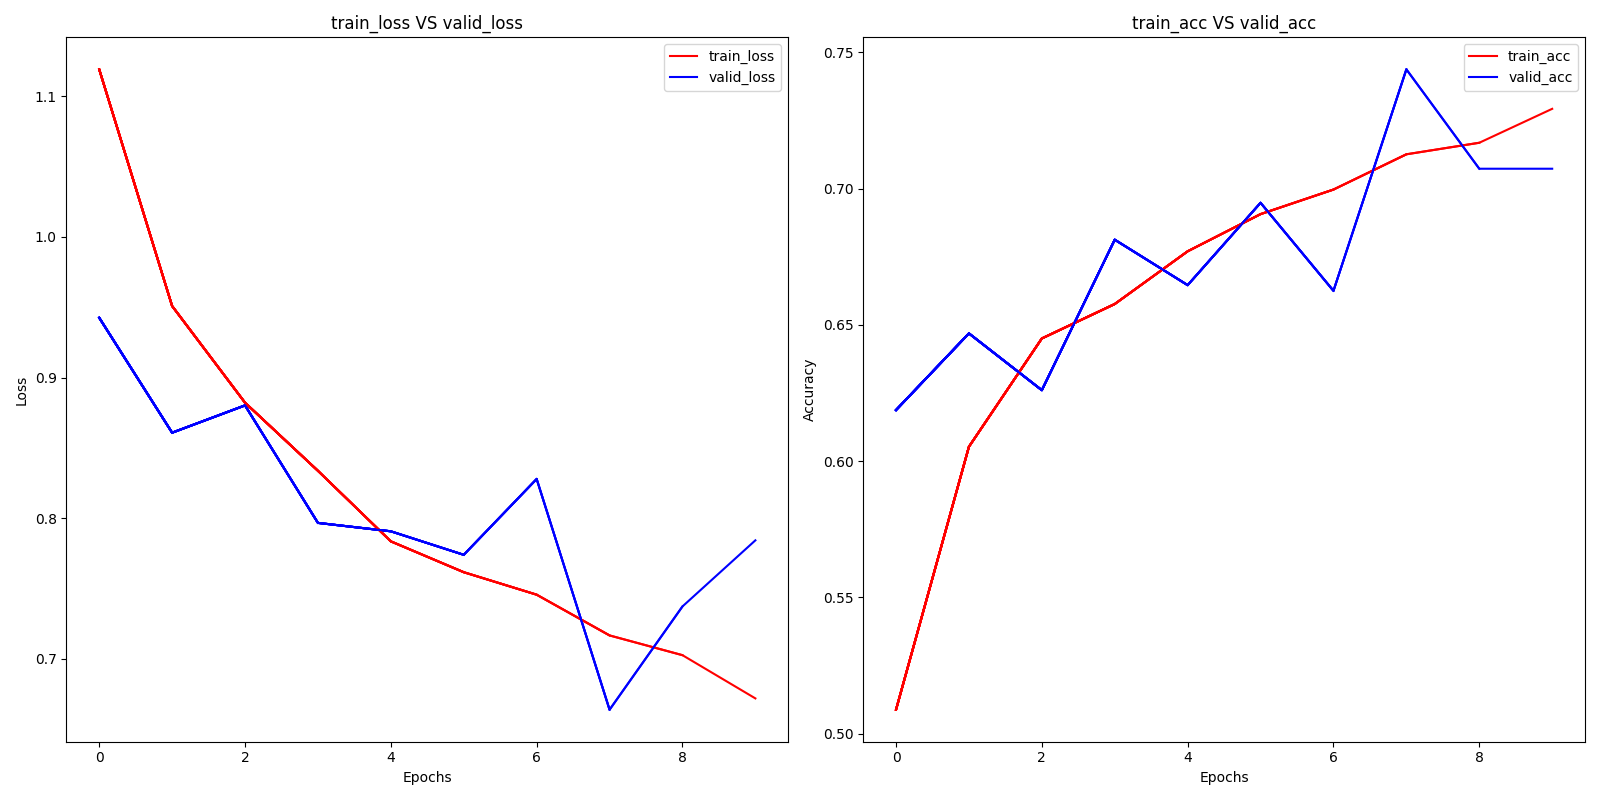
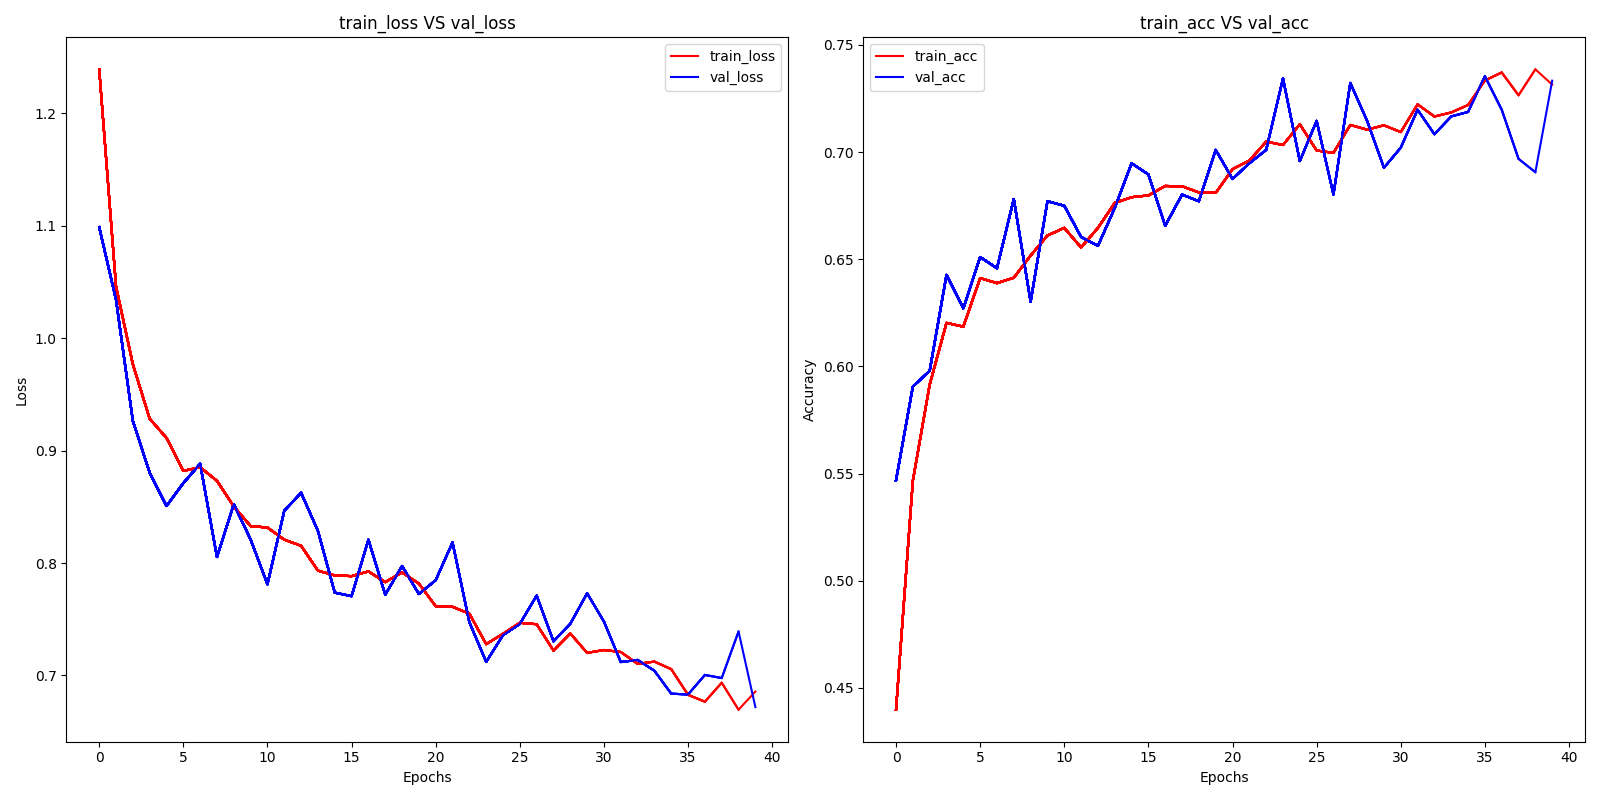
Code refactoring. Added LR scheduler.

diff --git a/src/model.py b/src/model.py
@@ -86,7 +86,9 @@ class MRINeuralNet(nn.Module):
                     self.conv_1(x)
                  )
                )
-           
+#class EarlyStopping():
+#    def __init__(self, patience, ):
+            
         
 class TrainTestEval():
     def __init__(self,
@@ -94,6 +96,7 @@ class TrainTestEval():
                  optimizer: torch.optim.Optimizer,
                  loss_func: nn.Module,
                  epochs: int = 10,
+                 lr_scheduler: torch.optim.lr_scheduler=None,
                  device: str = "cuda" if torch.cuda.is_available() else "cpu",
                  RANDOM_SEED: int = None
                 ):
@@ -102,6 +105,7 @@ class TrainTestEval():
         self.optimizer = optimizer
         self.loss_func = loss_func 
         self.epochs = epochs 
+        self.lr_scheduler = lr_scheduler
         self.device = device 
         
         # Put model on device
@@ -147,7 +151,7 @@ class TrainTestEval():
         # Model in eval mode
         self.model.eval()
         # Setup valid loss and accuracy 
-        valid_loss, valid_acc = 0, 0
+        val_loss, val_acc = 0, 0
 
         # Inference mode (not to compute gradient)
         with torch.inference_mode():
@@ -156,25 +160,32 @@ class TrainTestEval():
                 # Set data to device
                 imgs, labels = imgs.to(self.device), labels.to(self.device)
                 # Forward pass
-                valid_pred_logit = self.model(imgs)
+                val_pred_logit = self.model(imgs)
                 # Calculate valid loss
-                loss = self.loss_func(valid_pred_logit, labels)
-                valid_loss += loss.item()
+                loss = self.loss_func(val_pred_logit, labels)
+                val_loss += loss.item()
                 # Calculate accuracy
-                predicted_classes = valid_pred_logit.argmax(dim=1)
-                valid_acc += ((predicted_classes==labels).sum().item()/len(predicted_classes))
+                predicted_classes = val_pred_logit.argmax(dim=1)
+                val_acc += ((predicted_classes==labels).sum().item()/len(predicted_classes))
 
         # Average metrics per batch
-        valid_loss = valid_loss / len(valid_dataloader)
-        valid_acc = valid_acc / len(valid_dataloader)
-        return valid_loss, valid_acc
+        val_loss = val_loss / len(valid_dataloader)
+        val_acc = val_acc / len(valid_dataloader)
+        return val_loss, val_acc
+    
+    def _schedule_lr(self, metric):
+        if isinstance(self.lr_scheduler, torch.optim.lr_scheduler.ReduceLROnPlateau):
+            self.lr_scheduler.step(metric)
+        else:
+            self.lr_scheduler.step()
+        print('\nLr value: ', self.optimizer.param_groups[0]['lr'])
 
     def training(self, train_dataloader:DataLoader, valid_dataloader:DataLoader, verbose: bool = True, plot_metrics:bool = True):
         # Empty dict to track metrics
         training_metrics = {"train_loss": [],
                             "train_acc": [],
-                            "valid_loss": [],
-                            "valid_acc": []
+                            "val_loss": [],
+                            "val_acc": []
                             }
 
         # Initialize plot
@@ -185,11 +196,11 @@ class TrainTestEval():
         # Loop through epochs 
         for epoch in tqdm(range(self.epochs)):
             train_loss, train_acc = self.training_step(train_dataloader)
-            valid_loss, valid_acc = self.validation_step(valid_dataloader)
+            val_loss, val_acc = self.validation_step(valid_dataloader)
 
             # Actualize result_metrics
             training_metrics["train_loss"].append(train_loss), training_metrics["train_acc"].append(train_acc)
-            training_metrics["valid_loss"].append(valid_loss), training_metrics["valid_acc"].append(valid_acc)
+            training_metrics["val_loss"].append(val_loss), training_metrics["val_acc"].append(val_acc)
             
             if verbose:
                 # Print metrics for each epoch
@@ -197,10 +208,15 @@ class TrainTestEval():
                     color_print("\nEpoch: ", "LIGHTGREEN_EX"), epoch,
                     color_print("train_loss: ", "RED"), f"{train_loss:.4f}", color_print(" | ", "LIGHTMAGENTA_EX"),
                     color_print("train_acc: ", "RED"), f"{train_acc:.4f}", color_print(" | ", "LIGHTMAGENTA_EX"),
-                    color_print("valid_loss: ", "BLUE"), f"{valid_loss:.4f}", color_print(" | ", "LIGHTMAGENTA_EX"),
-                    color_print("valid_acc: ", "BLUE"), f"{valid_acc:.4f}", color_print(" | ", "LIGHTMAGENTA_EX")
+                    color_print("val_loss: ", "BLUE"), f"{val_loss:.4f}", color_print(" | ", "LIGHTMAGENTA_EX"),
+                    color_print("val_acc: ", "BLUE"), f"{val_acc:.4f}", color_print(" | ", "LIGHTMAGENTA_EX")
                 )
 
+
+            if self.lr_scheduler:
+                self._schedule_lr(val_loss)
+                
+                
             # Plot the metrics curves
             if plot_metrics:
                 self.plot_metrics(training_metrics)
@@ -226,18 +242,18 @@ class TrainTestEval():
     def plot_metrics(self, training_metrics:Dict):       
         plt.subplot(1, 2, 1)
         plt.plot(range(len(training_metrics["train_loss"])), training_metrics["train_loss"], label='train_loss', color='red')
-        plt.plot(range(len(training_metrics["valid_loss"])), training_metrics["valid_loss"], label='valid_loss', color='blue')
+        plt.plot(range(len(training_metrics["val_loss"])), training_metrics["val_loss"], label='val_loss', color='blue')
         if not plt.gca().get_title(): 
-            plt.title("train_loss VS valid_loss")
+            plt.title("train_loss VS val_loss")
             plt.xlabel('Epochs')
             plt.ylabel('Loss')
             plt.legend()
 
         plt.subplot(1, 2, 2)
         plt.plot(range(len(training_metrics["train_acc"])), training_metrics["train_acc"], label='train_acc', color='red')
-        plt.plot(range(len(training_metrics["valid_acc"])), training_metrics["valid_acc"], label='valid_acc', color='blue')
+        plt.plot(range(len(training_metrics["val_acc"])), training_metrics["val_acc"], label='val_acc', color='blue')
         if not plt.gca().get_title(): 
-            plt.title("train_acc VS valid_acc")
+            plt.title("train_acc VS val_acc")
             plt.xlabel('Epochs')
             plt.ylabel('Accuracy')
             plt.legend()

diff --git a/src/main.py b/src/main.py
@@ -3,6 +3,7 @@ import torch
 from typing import Dict, List, Tuple
 from torch.utils.data import Dataset, DataLoader
 from torchvision import datasets, transforms
+from torch.optim import lr_scheduler
 
 from torchinfo import summary
 
@@ -110,8 +111,8 @@ class Main():
     def get_MRINeuralNet_instance(self, input_shape, hidden_units, output_shape):
         return MRINeuralNet(input_shape, hidden_units, output_shape)
         
-    def get_TrainTestEval_instance(self, model, OPTIMIZER, LOSS_FUNC, EPOCHS = 10):
-        return TrainTestEval(model, OPTIMIZER, LOSS_FUNC, epochs=EPOCHS, device=self.device, RANDOM_SEED=self.RANDOM_SEED)
+    def get_TrainTestEval_instance(self, model, optimizer, loss_func, epochs = 10, lr_scheduler=None):
+        return TrainTestEval(model, optimizer, loss_func, epochs=epochs, lr_scheduler=lr_scheduler, device=self.device, RANDOM_SEED=self.RANDOM_SEED)
 
     def run_cross_validation(self, TrainTestEval_instance:TrainTestEval, cross_valid_dataloaders:Dict):
         training_metrics_per_fold = TrainTestEval_instance(cross_valid_dataloaders)
@@ -195,15 +196,16 @@ if __name__ == "__main__":
     # Get hidden_units and epochs
     HIDDEN_UNITS = config['MODEL_PARAMS']['HIDDEN_UNITS']
     EPOCHS = config['MODEL_PARAMS']['EPOCHS']
+    # Define lr_scheduler obj and params
+    lr_schd_name, LR_SCHEDULER_PARAMS = config_load.get_nested_param(config['MODEL_PARAMS']['LR_SCHEDULER'])
+    LR_SCHEDULER = getattr(lr_scheduler, lr_schd_name)
 
-
-    
 
     # Load data into datasets and dataloaders
     # _______________
 
-    input_shape, labels_shape = dl.load_data(BATCH_SIZE, TRAIN_TRANSFORM, TEST_TRANSFORM=TEST_TRANSFORM, TRAIN_VALID_RATIO=TRAIN_VALID_RATIO)
-    #input_shape, labels_shape = dl.load_data_cv(BATCH_SIZE, TRAIN_TRANSFORM, TEST_TRANSFORM=TEST_TRANSFORM, TRAIN_VALID_RATIO=TRAIN_VALID_RATIO)
+    input_shape, labels_shape = dl.load_data(BATCH_SIZE, TRAIN_TRANSFORM, TEST_TRANSFORM=TEST_TRANSFORM, TRAIN_VALID_RATIO=TRAIN_VALID_RATIO, num_workers=4)
+    #input_shape, labels_shape = dl.load_data_cv(BATCH_SIZE, TRAIN_TRANSFORM, TEST_TRANSFORM=TEST_TRANSFORM, TRAIN_VALID_RATIO=TRAIN_VALID_RATIO, num_workers=6)
 
         
     # Define model 
@@ -218,11 +220,14 @@ if __name__ == "__main__":
 
 
     # Initiate TrainTestEval class instance
+    OPTIMIZER_INST = OPTIMIZER(params=base_model.parameters(), **OPTIMIZER_PARAMS)
+
     train_test_eval_inst = dl.get_TrainTestEval_instance(
                                      model = base_model,
-                                     OPTIMIZER = OPTIMIZER(params=base_model.parameters(), **OPTIMIZER_PARAMS),
-                                     LOSS_FUNC = LOSS_FUNC(),
-                                     EPOCHS = EPOCHS,
+                                     optimizer = OPTIMIZER_INST,
+                                     loss_func = LOSS_FUNC(),
+                                     epochs = EPOCHS,
+                                     lr_scheduler = LR_SCHEDULER(OPTIMIZER_INST, **LR_SCHEDULER_PARAMS),
                                     )
     
 

diff --git a/src/secondary_module.py b/src/secondary_module.py
@@ -45,6 +45,9 @@ class ConfigLoad():
     
     def get_dataset(self, dict_name='DATASET'):
         return CustomImageFolder if self.config[dict_name] == 'CustomImageFolder' else getattr(datasets, self.config[dict_name])
+    
+    def get_nested_param(self, config_dict:dict):
+        return next(iter(config_dict.items()))
         
 
 def check_cuda_availability():
